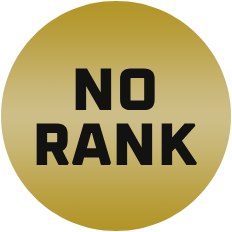
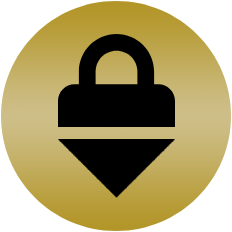
Update

Changed region(s): [[0.1509, 0.1207, 0.8448, 0.8448]]

diff --git a/app/features/stats/StatsProvider.jsx b/app/features/stats/StatsProvider.jsx
@@ -20,7 +20,10 @@ const BALANCE_CACHE_TTL = 3_600_000; // 60 minutes
 
 // Tier logic copied from your previous AccessProvider
 function computeTierFromSupraWr(balanceDisplay) {
-  if (!balanceDisplay) return null;
+  // Treat empty / missing as zero → Unranked
+  if (balanceDisplay == null || balanceDisplay === "") {
+    return "Unranked";
+  }
 
   const cleanedInt = String(balanceDisplay)
     .split(".")[0]
@@ -31,10 +34,11 @@ function computeTierFromSupraWr(balanceDisplay) {
   try {
     whole = BigInt(cleanedInt || "0");
   } catch {
-    return null;
+    // If parsing fails, just treat as zero / Unranked
+    return "Unranked";
   }
 
-  if (whole <= 0n) return null;
+  if (whole === 0n) return "Unranked";
 
   if (whole >= 10_000_000n) return "Master";
   if (whole >= 1_000_000n) return "Titan";

diff --git a/app/dashboard/shell/Sidebar.jsx b/app/dashboard/shell/Sidebar.jsx
@@ -33,6 +33,8 @@ function formatSidebarBalance(raw) {
 // -------------------------------
 function getRankBadgePath(tier) {
   switch (tier) {
+    case "Unranked":
+      return "/rank/unranked-001.webp";
     case "Hatchling":
       return "/rank/hatchling-001.webp";
     case "Scaleborn":
